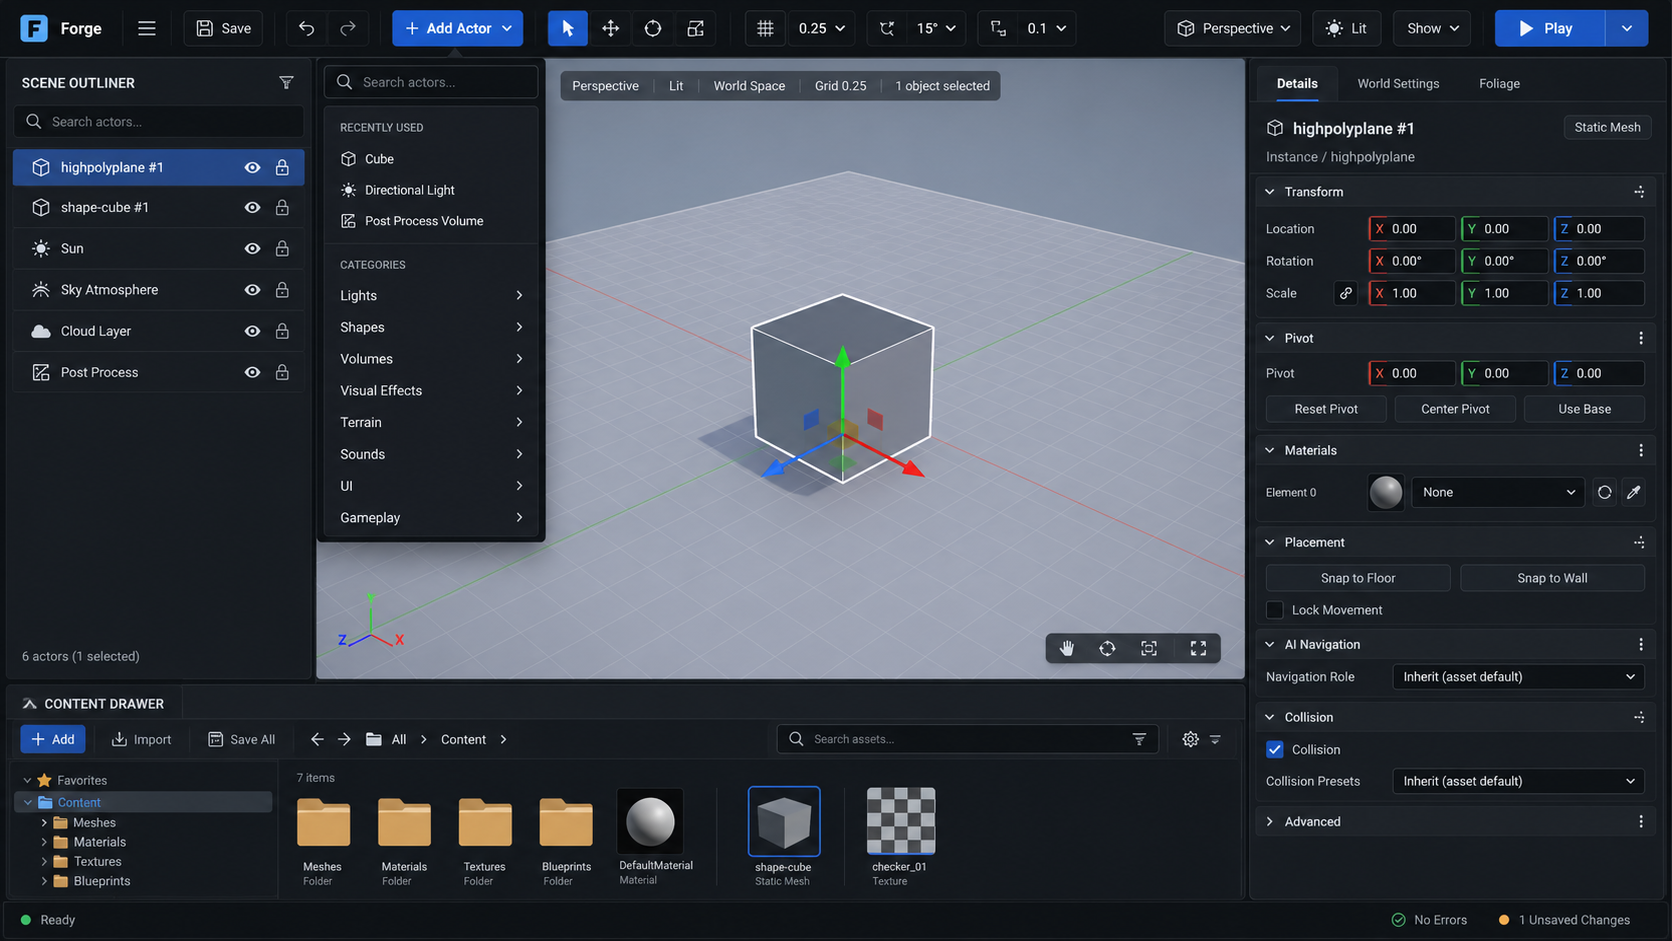
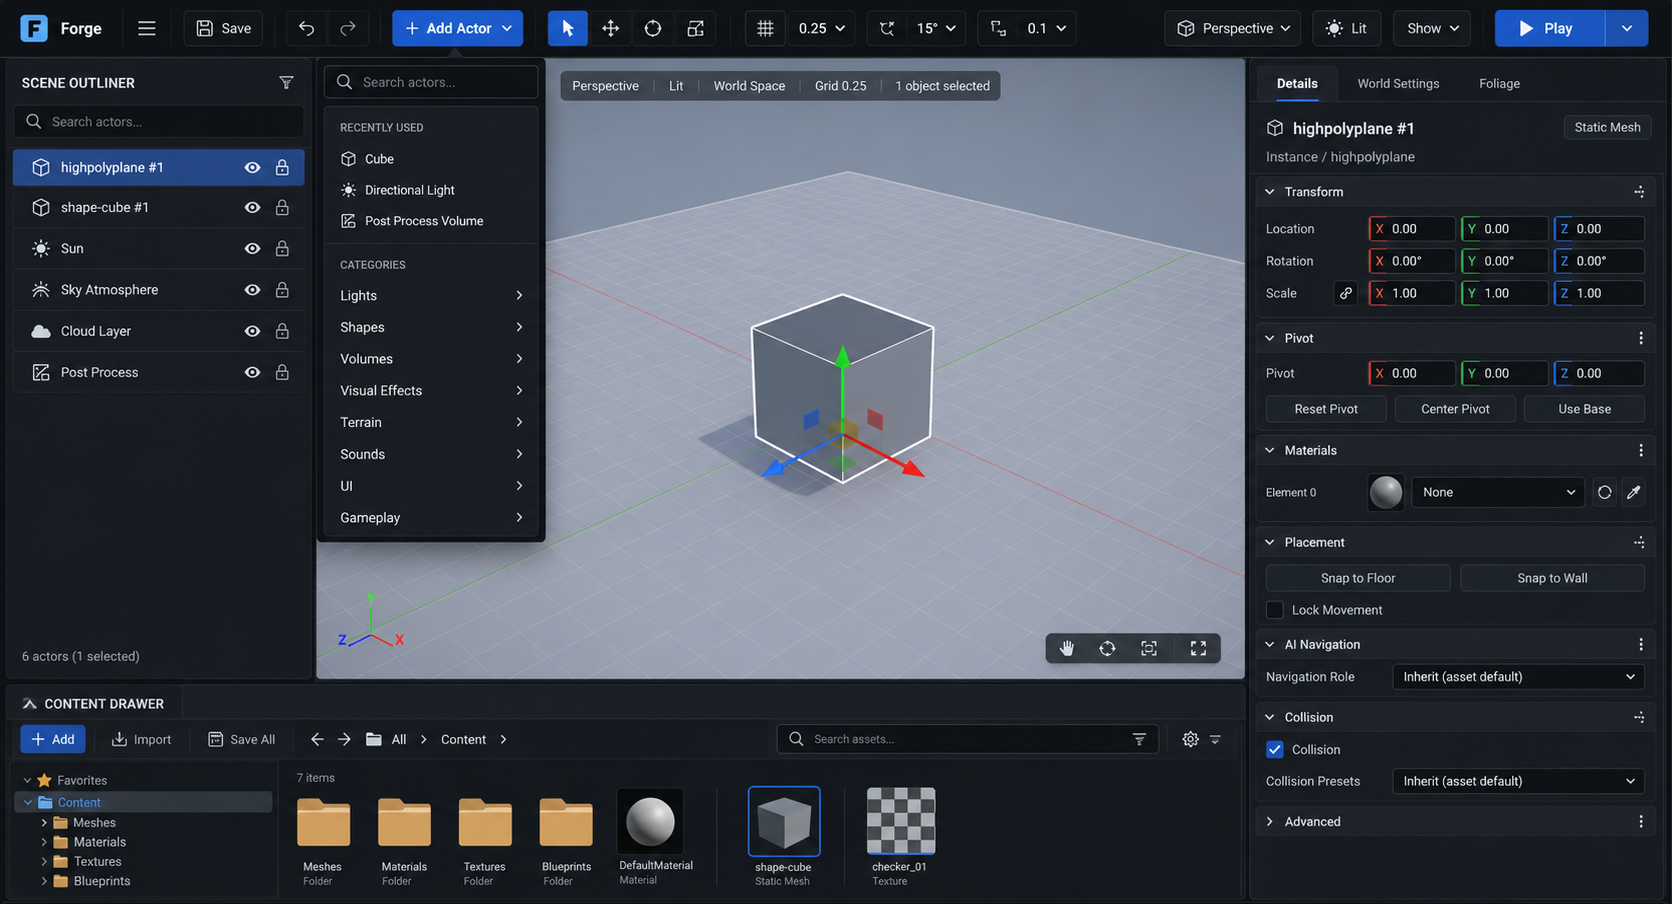
feat(ui): update Content Drawer toggle functionality and styling; enhance tests for new behavior

diff --git a/src/editor/editorUi.css b/src/editor/editorUi.css
@@ -684,11 +684,12 @@ body.editor-mode #debug-stats {
 
 .editor-shell {
   --content-drawer-height: clamp(232px, 34vh, 420px);
+  --content-drawer-collapsed-h: 42px;
 }
 
 .editor-outliner {
   left: 0;
-  bottom: 28px;
+  bottom: var(--content-drawer-collapsed-h);
   width: 260px;
   z-index: 40;
   border-right-style: solid;
@@ -698,7 +699,7 @@ body.editor-mode #debug-stats {
 
 .editor-details {
   right: 0;
-  bottom: 28px;
+  bottom: 0;
   width: 410px;
   z-index: 40;
   padding: 0;
@@ -2187,65 +2188,41 @@ body.editor-mode #debug-stats {
   color: #c8d0d4;
 }
 
+/* The former bottom status bar is gone: the drawer's own header is the sole
+   dock/toggle. This element is kept (hidden) only so setStatus() and the
+   `editor-status` testid contract keep working; nothing renders it. */
 .editor-status {
-  position: absolute;
-  inset: auto 0 0 0;
-  z-index: 60;
-  height: 28px;
-  display: flex;
-  align-items: center;
-  gap: 8px;
-  padding: 0 12px;
-  background: rgba(17, 20, 23, 0.96);
-  border-top: 1px solid var(--forge-border);
-  color: #cbd3d7;
-  pointer-events: auto;
-}
-
-.editor-status [data-status] {
-  min-width: 0;
-  overflow: hidden;
-  text-overflow: ellipsis;
-  white-space: nowrap;
-}
-
-.editor-shell .content-drawer-toggle {
-  min-height: 22px;
-  border-radius: 4px;
-  padding: 0 9px;
-  font-size: 12px;
-}
-
-/* When the drawer is open its own header owns collapse, so the footer entry
-   point is redundant and hides (no stacked "second bottom bar"). */
-.editor-shell.content-drawer-open .content-drawer-toggle {
   display: none;
 }
 
+/* The drawer stays docked at the bottom and collapses to just its header
+   strip; that header is the toggle. Height (not a slide) animates open/close so
+   the collapsed strip is always present and clickable (no separate footer). */
 .editor-content-drawer {
   position: absolute;
   left: 0;
   right: 410px;
-  bottom: 28px;
+  bottom: 0;
   z-index: 30;
-  height: var(--content-drawer-height);
+  height: var(--content-drawer-collapsed-h);
   display: grid;
-  grid-template-rows: minmax(42px, auto) minmax(0, 1fr);
+  grid-template-rows: var(--content-drawer-collapsed-h) minmax(0, 1fr);
+  overflow: hidden;
   color: var(--forge-text);
   background: rgba(22, 25, 28, 0.97);
   border-top: 1px solid var(--forge-border-mid);
   box-shadow: 0 -12px 28px rgba(0, 0, 0, 0.38);
   pointer-events: none;
-  transform: translateY(calc(100% + 1px));
-  transition: transform 140ms ease;
+  transition: height 140ms ease;
+}
+
+/* The header strip is interactive even while collapsed so its title toggles. */
+.content-drawer-top {
+  pointer-events: auto;
 }
 
 .editor-content-drawer.open {
   pointer-events: auto;
-  transform: translateY(0);
-}
-
-.editor-content-drawer.is-tall {
   height: var(--content-drawer-height);
 }
 
@@ -2254,7 +2231,7 @@ body.editor-mode #debug-stats {
 }
 
 .editor-shell.content-drawer-open .editor-outliner {
-  bottom: calc(28px + var(--content-drawer-height));
+  bottom: calc(var(--content-drawer-collapsed-h) + var(--content-drawer-height));
 }
 
 .content-drawer-top {
@@ -2345,6 +2322,20 @@ body.editor-mode #debug-stats {
 .content-drawer-chevron svg {
   width: 12px;
   height: 12px;
+  transition: transform 140ms ease;
+}
+
+/* Caret points up while collapsed ("expand up"), flips down when open. */
+.editor-shell.content-drawer-open .content-drawer-chevron svg {
+  transform: rotate(180deg);
+}
+
+/* Collapsed strip shows only the title; the toolbar appears once open. */
+.editor-shell:not(.content-drawer-open) .content-primary-actions,
+.editor-shell:not(.content-drawer-open) .content-navigation,
+.editor-shell:not(.content-drawer-open) .content-search-wrap,
+.editor-shell:not(.content-drawer-open) .content-drawer-actions {
+  display: none;
 }
 
 .content-path,
@@ -2926,20 +2917,20 @@ body.editor-mode #debug-stats {
 
   .editor-panel {
     top: 158px;
-    bottom: 28px;
+    bottom: var(--content-drawer-collapsed-h);
     width: 50vw;
     padding: 8px;
   }
 
   .editor-outliner {
     left: 0;
-    bottom: 28px;
+    bottom: var(--content-drawer-collapsed-h);
     width: 50vw;
   }
 
   .editor-details {
     right: 0;
-    bottom: 28px;
+    bottom: 0;
     width: 50vw;
   }
 
@@ -2958,15 +2949,10 @@ body.editor-mode #debug-stats {
 
   .editor-content-drawer {
     right: 50vw;
-    height: var(--content-drawer-height);
   }
 
   .content-drawer-top {
-    grid-template-columns: minmax(0, 1fr) auto auto auto;
-  }
-
-  .content-drawer-title {
-    display: none;
+    grid-template-columns: auto minmax(0, 1fr) auto auto auto;
   }
 
   .content-filters {
@@ -6231,7 +6217,7 @@ body.editor-mode #debug-stats {
     position: absolute;
     top: calc(var(--editor-gap) + var(--editor-topbar-height) + var(--editor-gap));
     right: calc(var(--editor-details-width) + (var(--editor-gap) * 2));
-    bottom: calc(var(--editor-status-height) + (var(--editor-gap) * 2));
+    bottom: calc(var(--content-drawer-collapsed-h) + (var(--editor-gap) * 2));
     left: calc(var(--editor-outliner-width) + (var(--editor-gap) * 2));
     z-index: 1;
     pointer-events: none;
@@ -6241,7 +6227,7 @@ body.editor-mode #debug-stats {
   }
 
   .editor-shell.content-drawer-open .editor-viewport-frame {
-    bottom: calc(var(--editor-status-height) + (var(--editor-gap) * 3) + var(--content-drawer-height));
+    bottom: calc(var(--content-drawer-height) + (var(--editor-gap) * 2));
   }
 
   .editor-topbar {
@@ -6261,7 +6247,7 @@ body.editor-mode #debug-stats {
 
   .editor-panel {
     top: calc(var(--editor-gap) + var(--editor-topbar-height) + var(--editor-gap));
-    bottom: calc(var(--editor-status-height) + (var(--editor-gap) * 2));
+    bottom: calc(var(--content-drawer-collapsed-h) + (var(--editor-gap) * 2));
     border: 1px solid #2d3740;
     border-radius: 4px;
     background: linear-gradient(180deg, #171e24 0%, #12181e 100%);
@@ -6282,33 +6268,21 @@ body.editor-mode #debug-stats {
     background: linear-gradient(180deg, #171e24 0%, #111820 100%);
   }
 
-  .editor-status {
-    left: var(--editor-gap);
-    right: calc(var(--editor-details-width) + (var(--editor-gap) * 2));
-    bottom: var(--editor-gap);
-    height: var(--editor-status-height);
-    border: 1px solid #2a333b;
-    border-radius: 4px;
-    background: #11171c;
-    box-shadow: 0 4px 12px rgba(0, 0, 0, 0.22);
-  }
-
   .editor-content-drawer {
     left: var(--editor-gap);
     right: calc(var(--editor-details-width) + (var(--editor-gap) * 2));
-    bottom: calc(var(--editor-status-height) + (var(--editor-gap) * 2));
-    height: var(--content-drawer-height);
+    bottom: var(--editor-gap);
+    height: var(--content-drawer-collapsed-h);
     border: 1px solid #2d3740;
     border-radius: 4px;
     background: linear-gradient(180deg, #171e24 0%, #11171c 100%);
     box-shadow: 0 8px 20px rgba(0, 0, 0, 0.32);
-    transform: translateY(calc(100% + var(--editor-gap)));
   }
 
   .editor-shell.content-drawer-tall { --content-drawer-height: clamp(360px, 58vh, 680px); }
 
   .editor-shell.content-drawer-open .editor-outliner {
-    bottom: calc(var(--editor-status-height) + (var(--editor-gap) * 3) + var(--content-drawer-height));
+    bottom: calc(var(--content-drawer-height) + (var(--editor-gap) * 2));
   }
 
   .inspector-tabs,

diff --git a/tests/smoke/content-drawer-redesign.spec.ts b/tests/smoke/content-drawer-redesign.spec.ts
@@ -3,7 +3,7 @@ import { expect, test } from "@playwright/test";
 test("Content Drawer exposes toolbar, breadcrumb, history, and view controls", async ({ page }) => {
   await page.goto("/?editor");
   await expect(page.getByTestId("forge-editor")).toBeVisible({ timeout: 30_000 });
-  await page.getByRole("button", { name: "Content Drawer" }).click();
+  await page.locator("[data-content-toggle]").click();
 
   const drawer = page.locator("[data-content-drawer]");
   await expect(drawer).toHaveClass(/open/);
@@ -59,10 +59,14 @@ test("Content Drawer exposes toolbar, breadcrumb, history, and view controls", a
   expect(drawerBox!.x + drawerBox!.width).toBeLessThanOrEqual(detailsBox!.x + 1);
   expect(outlinerBox!.y + outlinerBox!.height).toBeLessThanOrEqual(drawerBox!.y + 1);
 
-  // The footer reopen entry is hidden while open (no stacked second bottom bar);
-  // the drawer's own header owns collapse.
-  await expect(page.locator(".content-drawer-toggle")).toBeHidden();
-  await drawer.locator("[data-content-collapse]").click();
+  // The drawer's own header title is the sole toggle (no separate footer bar).
+  // Collapsing leaves only the header strip docked and clickable.
+  const toggle = drawer.locator("[data-content-toggle]");
+  await toggle.click();
   await expect(page.getByTestId("forge-editor")).not.toHaveClass(/content-drawer-open/);
-  await expect(page.locator(".content-drawer-toggle")).toBeVisible();
+  await expect(toggle).toBeVisible();
+  await expect(drawer.locator("[data-content-add]")).toBeHidden();
+  // Clicking the docked header strip reopens it.
+  await toggle.click();
+  await expect(drawer).toHaveClass(/open/);
 });

diff --git a/src/editor/EditorUi.ts b/src/editor/EditorUi.ts
@@ -588,9 +588,9 @@ export class EditorUi {
       <section class="editor-content-drawer" data-content-drawer aria-hidden="true">
         <div class="content-drawer-top">
           <div class="content-drawer-title">
-            <button type="button" class="content-drawer-collapse" data-content-collapse aria-label="Collapse Content Drawer" title="Collapse Content Drawer">
+            <button type="button" class="content-drawer-collapse" data-content-toggle aria-expanded="false" aria-label="Toggle Content Drawer" title="Toggle Content Drawer">
+              <span class="content-drawer-chevron" aria-hidden="true">${UI_ICONS.chevronUp}</span>
               <strong>CONTENT DRAWER</strong>
-              <span class="content-drawer-chevron" aria-hidden="true">${UI_ICONS.chevronDown}</span>
             </button>
             <span data-content-root hidden></span>
           </div>
@@ -630,10 +630,7 @@ export class EditorUi {
         </div>
         <div class="details-body world-settings-body" data-world-settings-body></div>
       </div>
-      <footer class="editor-status">
-        <button type="button" class="content-drawer-toggle" data-content-toggle aria-expanded="false">
-          Content Drawer
-        </button>
+      <footer class="editor-status" hidden>
         <span data-status data-testid="editor-status">Ready</span>
       </footer>
     `;
@@ -996,9 +993,6 @@ export class EditorUi {
     this.contentToggle.addEventListener("click", () => {
       this.setContentDrawerOpen(!this.contentDrawerOpen);
     });
-    this.root
-      .querySelector<HTMLButtonElement>("[data-content-collapse]")
-      ?.addEventListener("click", () => this.setContentDrawerOpen(false));
 
     this.root.querySelector<HTMLButtonElement>("[data-content-add]")?.addEventListener("click", (event) => {
       this.openContentAddMenu(event, this.selectedFolder);